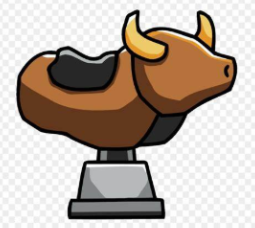
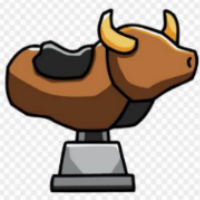
Resize images, add setBuildingTexture function, minor changes to main

diff --git a/building.h b/building.h
@@ -9,6 +9,7 @@ class Building {
   int building_count;
   int building_price;
   sf::Sprite building_sprite;
+  sf::Texture building_texture
   int earn_rate;
   bool unlocked;
 
@@ -57,6 +58,16 @@ class Building {
       building_sprite = sprite;
     }
 
+    void setBuildingTexture()
+    {
+        if (!building_texture.loadFromFile("images/" + name + ".png"))
+        {
+            std::cerr << "Failed to load hidden tile!" << std::endl;
+            return false;
+        }
+        building_sprite.setTexture(building_texture);
+        building_sprite.setTextureRect(sf::IntRect(0, 0, 200, 200))
+    }
 };
 
 #endif //BUILDING_H

diff --git a/main.cpp b/main.cpp
@@ -7,6 +7,7 @@
 #include <unordered_map>
 #include <random>
 #include <cmath>
+#include "building.h"
 
 static void setText(sf::Text& text, float x, float y)
 {
@@ -53,6 +54,8 @@ public:
         this->name = name;
     }
 };
+
+
 
 class WelcomeWindow
 {
